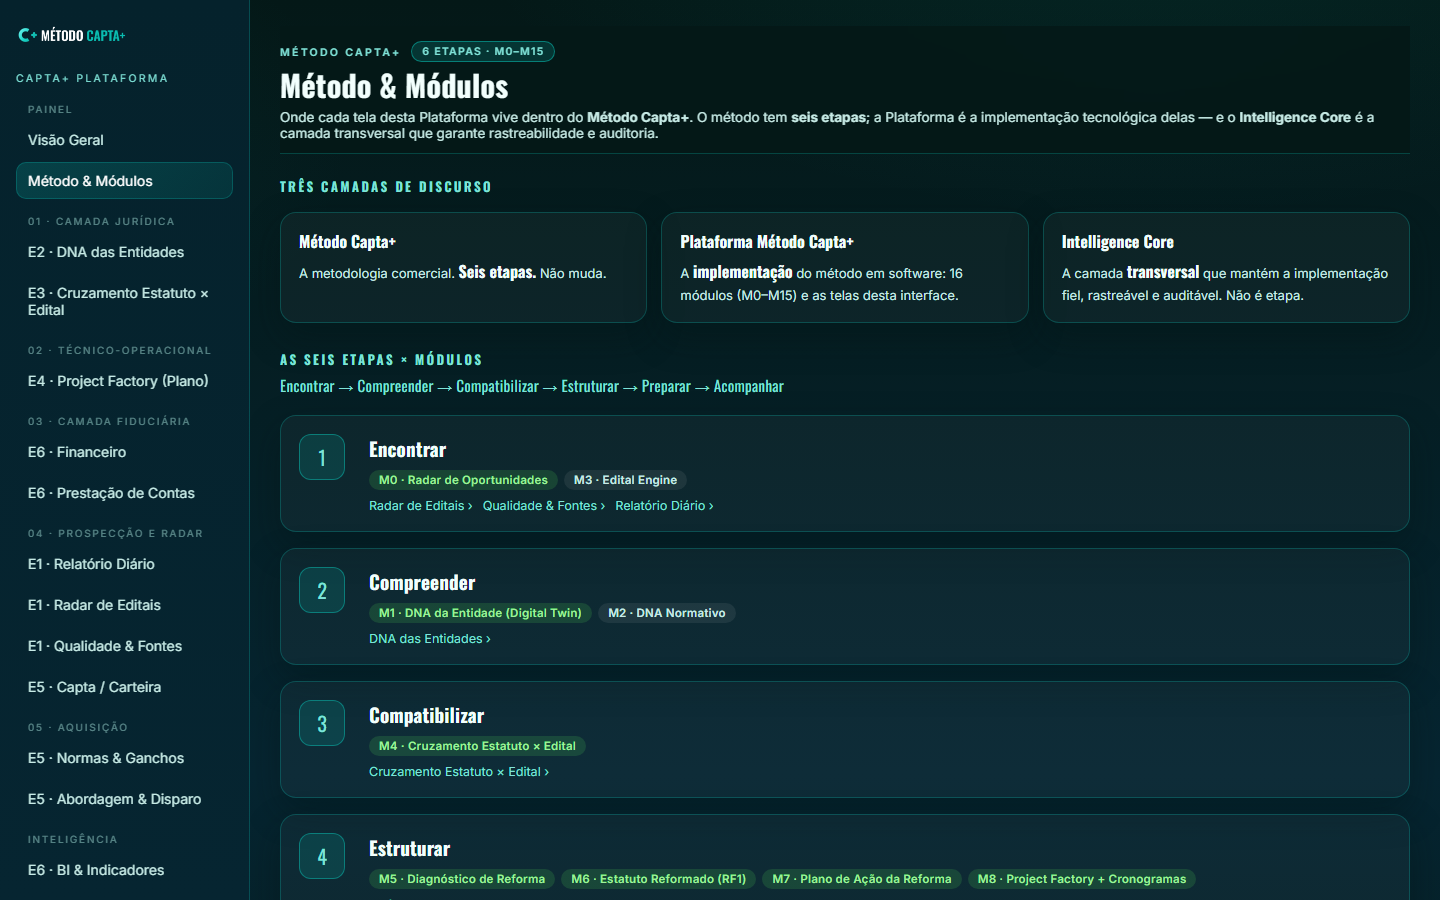
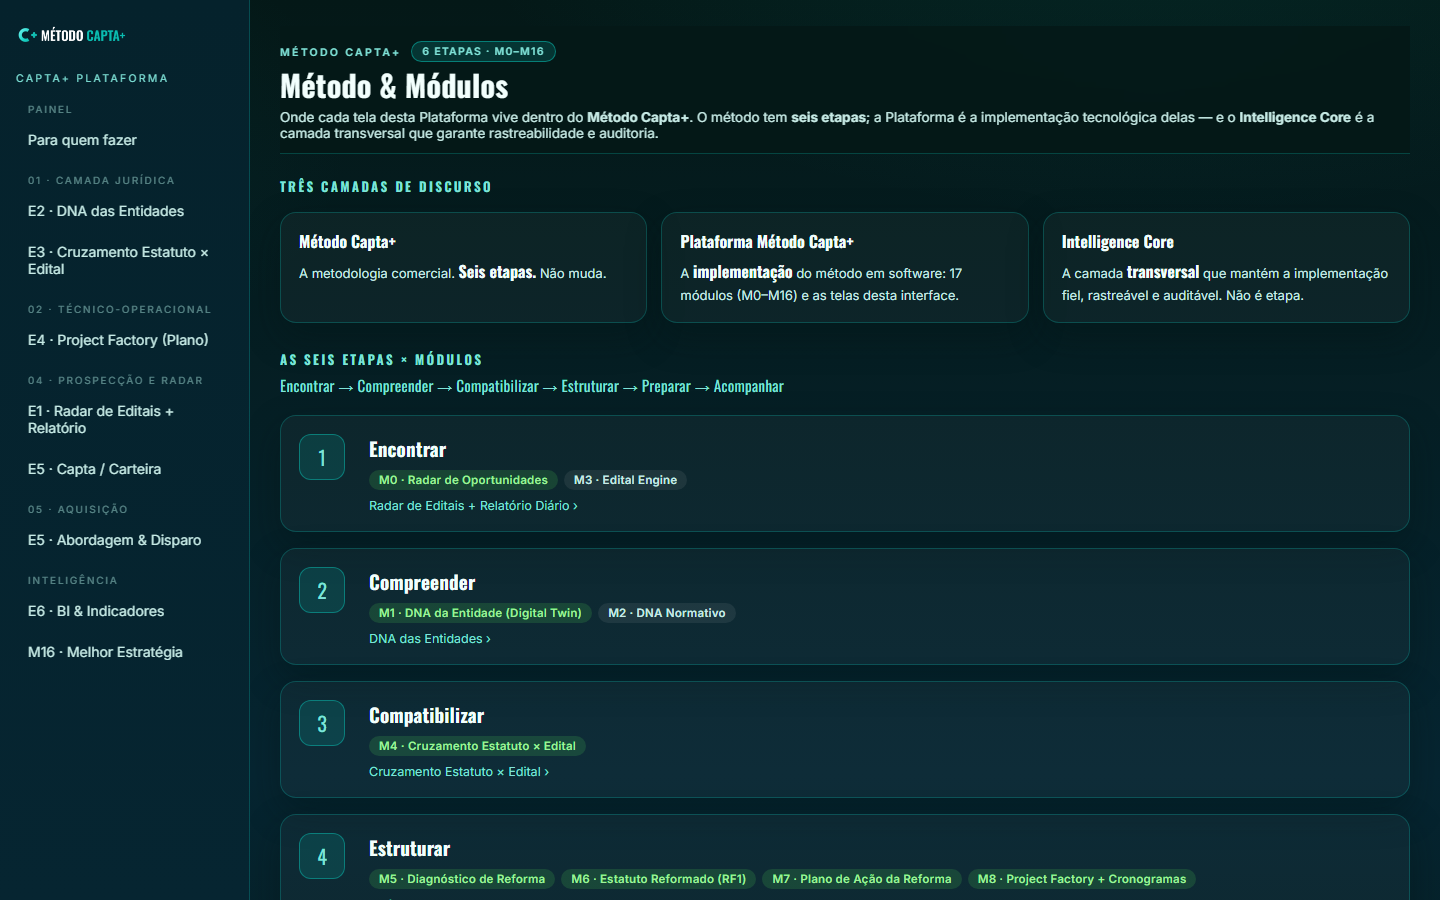
Demonstracao: telas atualizadas (Metodo M0-M16, Radar JEV, Melhor Estrategia M16)

diff --git a/demonstracao/index.html b/demonstracao/index.html
@@ -2,14 +2,17 @@
 <html lang="pt-BR">
 <head>
 <meta charset="utf-8">
+<link rel="preconnect" href="https://fonts.googleapis.com">
+<link rel="preconnect" href="https://fonts.gstatic.com" crossorigin>
+<link href="https://fonts.googleapis.com/css2?family=Oswald:wght@400;500;600;700&family=Inter:wght@400;500;600;700&display=swap" rel="stylesheet">
 <meta name="viewport" content="width=device-width, initial-scale=1">
 <title>Ver demonstração — Capta+ Plataforma | Método Capta+</title>
-<meta name="description" content="Veja a Capta+ Plataforma em operação: o mapa do método, a saúde das fontes do Radar e a biblioteca de ganchos legais — telas reais do sistema.">
+<meta name="description" content="Veja a Capta+ Plataforma em operação: o método em 17 módulos (M0–M16), o Radar de Editais ordenado pela JEV e a tela Melhor Estratégia — telas reais do sistema.">
 <meta name="robots" content="index, follow, max-snippet:-1, max-image-preview:large">
 <link rel="canonical" href="https://metodocapta.github.io/demonstracao/" />
 <meta property="og:type" content="website">
 <meta property="og:title" content="Ver demonstração — Capta+ Plataforma">
-<meta property="og:description" content="Telas reais do sistema: método, fontes do Radar e ganchos legais.">
+<meta property="og:description" content="Telas reais do sistema: método em 17 módulos (M0–M16), Radar ordenado pela JEV e Melhor Estratégia.">
 <meta property="og:url" content="https://metodocapta.github.io/demonstracao/">
 <meta property="og:site_name" content="Método Capta+">
 <meta property="og:image" content="https://metodocapta.github.io/assets/marca/og-metodo-capta.png">
@@ -64,9 +67,9 @@ footer .wrap{display:flex;justify-content:space-between;gap:14px;flex-wrap:wrap}
 footer a{color:#7ef0e2;text-decoration:none;margin-right:14px}
 @media(max-width:700px){ .site-hd nav a{margin-left:0;margin-right:14px} .cta{padding:20px} }
 </style>
-<link rel="stylesheet" href="/assets/marca/fontes.css">
-<link rel="preload" as="font" type="font/woff2" href="/assets/marca/fontes/inter-latin.woff2" crossorigin>
-<link rel="preload" as="font" type="font/woff2" href="/assets/marca/fontes/oswald-latin.woff2" crossorigin>
+<link rel="stylesheet" href="../assets/marca/fontes.css">
+<link rel="preload" as="font" type="font/woff2" href="../assets/marca/fontes/inter-latin.woff2" crossorigin>
+<link rel="preload" as="font" type="font/woff2" href="../assets/marca/fontes/oswald-latin.woff2" crossorigin>
 </head>
 <body>
 <header class="site-hd"><div class="wrap">
@@ -79,25 +82,25 @@ footer a{color:#7ef0e2;text-decoration:none;margin-right:14px}
 <span class="kick">Capta+ Plataforma</span>
 <h1>Veja o método em operação.</h1>
 <p class="lead">Estas são <b>telas reais</b> do sistema que conduz a jornada de captação — não são mockups. O Método Capta+ é a metodologia; a Plataforma é onde ela acontece.</p>
-<div class="aviso"><b>Nota de privacidade:</b> as capturas abaixo mostram apenas telas de <b>método, fontes e legislação</b>. Telas com dados de organizações atendidas não são publicadas.</div>
+<div class="aviso"><b>Nota de privacidade:</b> as capturas abaixo mostram apenas telas de <b>método e inteligência</b>; o seletor e o nome da organização foram ocultados. Telas com dados de organizações atendidas não são publicadas.</div>
 </section>
 
 <section class="tela">
-<h2>Método &amp; Módulos — onde cada tela vive no método</h2>
-<p>As seis etapas oficiais, os módulos que as sustentam e as telas de cada uma — a mesma definição usada internamente.</p>
-<img src="../assets/demo/metodo.webp" alt="Tela Método e Módulos da Capta+ Plataforma: as seis etapas, os módulos e o Intelligence Core" loading="lazy" decoding="async">
+<h2>Método &amp; Módulos — as seis etapas e os 17 módulos</h2>
+<p>As seis etapas oficiais, os <b>17 módulos (M0–M16)</b> que as sustentam e as telas de cada uma — incluindo o <b>M16 · Melhor Estratégia</b>. A mesma definição usada internamente, com o Intelligence Core como camada transversal.</p>
+<img src="../assets/demo/metodo.webp" alt="Tela Método e Módulos da Capta+ Plataforma: as seis etapas, os módulos (M0–M16) e o Intelligence Core" loading="lazy" decoding="async">
 </section>
 
 <section class="tela">
-<h2>Qualidade &amp; Fontes — de onde vem cada oportunidade</h2>
-<p>Saúde de cada fonte coletada: status, última coleta, latência, itens e erros. Inclui a <b>auditoria negativa</b> — a fonte consultada e vazia também é registrada.</p>
-<img src="../assets/demo/fontes.webp" alt="Tela Qualidade e Fontes da Capta+ Plataforma: status, última coleta, latência e erros por fonte" loading="lazy" decoding="async">
+<h2>Radar de Editais — a oportunidade certa primeiro</h2>
+<p>Editais, chamamentos, LIR e Rouanet reunidos e <b>ordenados pela JEV</b>: a proximidade (cidade → estado → federação), o prazo e a aderência definem o que fica no topo. Cada linha já traz a <b>plataforma de submissão</b>, o prazo (<i>prazo não publicado</i> quando a fonte não informa data) e a fonte.</p>
+<img src="../assets/demo/radar.webp" alt="Tela Radar de Editais da Capta+ Plataforma: oportunidades ordenadas pela JEV, com UF, proximidade, plataforma, prazo, valor e mecanismo" loading="lazy" decoding="async">
 </section>
 
 <section class="tela">
-<h2>Normas &amp; Ganchos — a legislação que sustenta a abordagem</h2>
-<p>Os ganchos legais por mecanismo de incentivo, com dispositivo e vigência, cruzados com o que a organização pode usar.</p>
-<img src="../assets/demo/normas.webp" alt="Tela Normas e Ganchos da Capta+ Plataforma: ganchos legais por mecanismo de incentivo" loading="lazy" decoding="async">
+<h2>Melhor Estratégia (M16) — a JEV escolhe, o humano decide</h2>
+<p>Cruza a realidade documental da organização com o catálogo de estratégias (estudos). A <b>JEV</b> aponta o <b>Top-3</b>; o código aplica o limiar (≥ 0,70) e os gates; o humano arbitra. A <b>elegibilidade ao mecanismo é gate eliminatório</b> e cada sinal traz a sua fonte.</p>
+<img src="../assets/demo/estrategia.webp" alt="Tela Melhor Estratégia (M16) da Capta+ Plataforma: resumo da realidade documental, sinais com fonte e Top-3 apontado pela JEV" loading="lazy" decoding="async">
 </section>
 
 <section class="cta">
